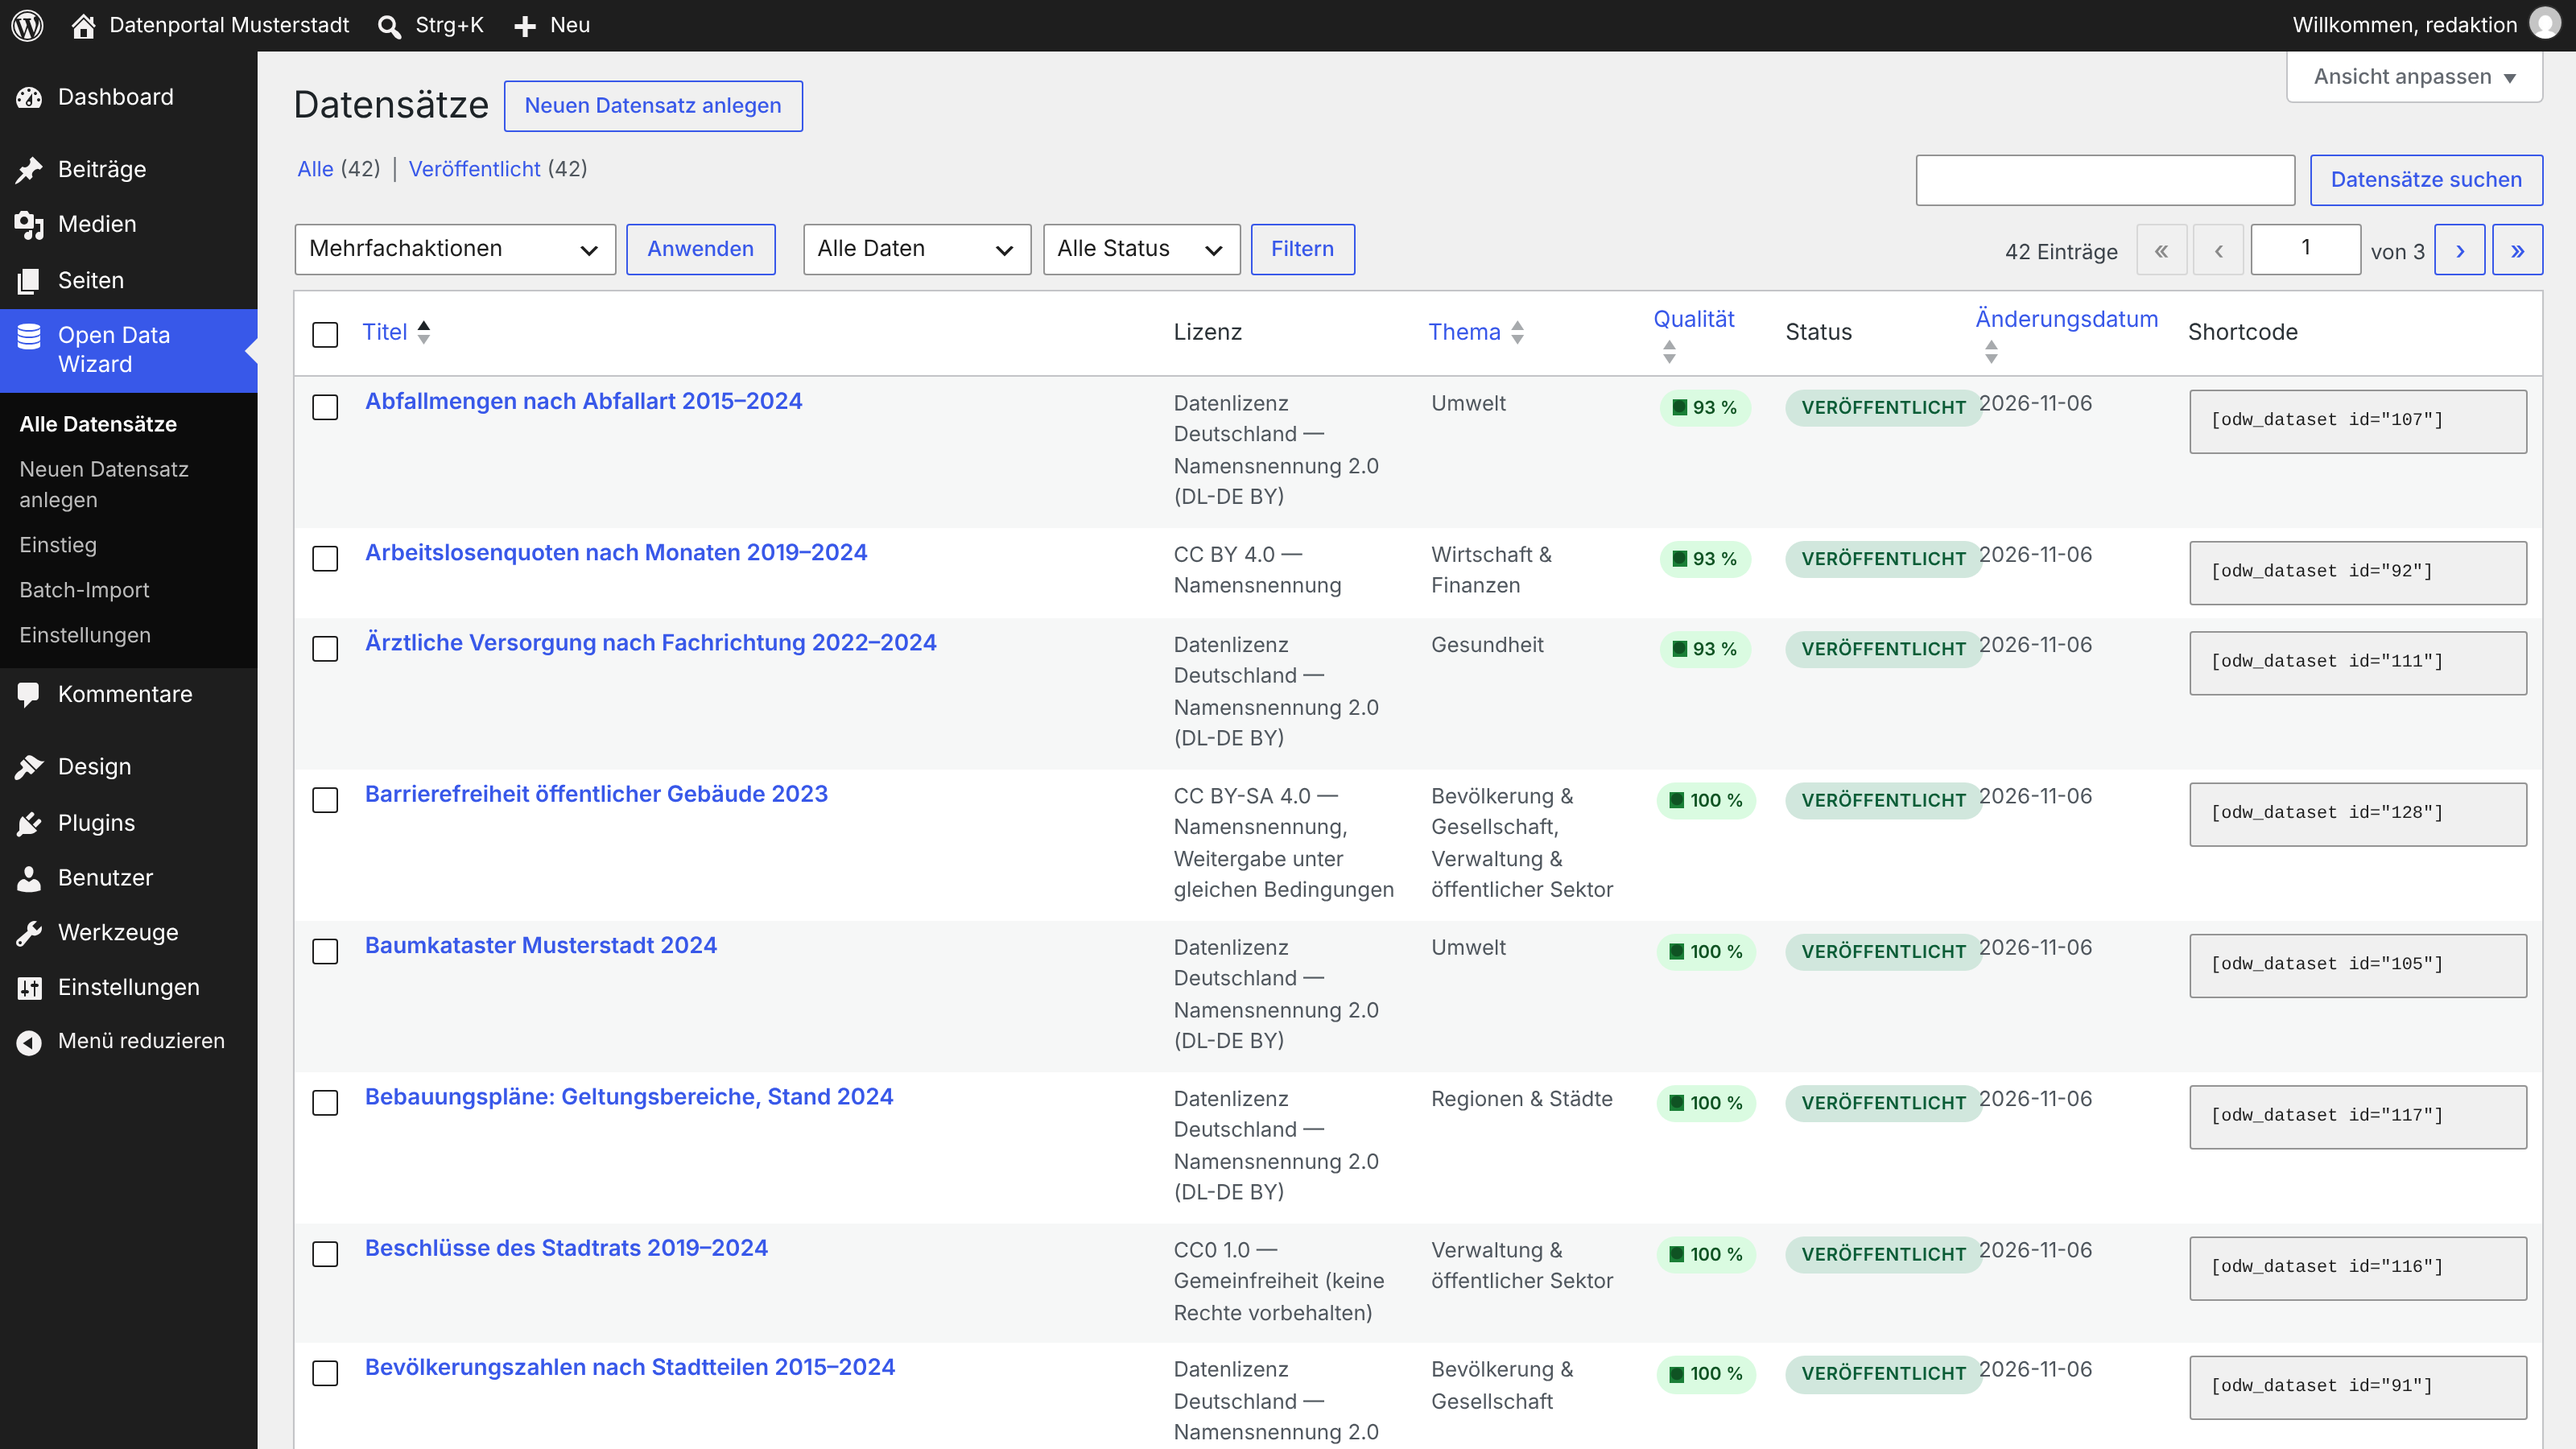
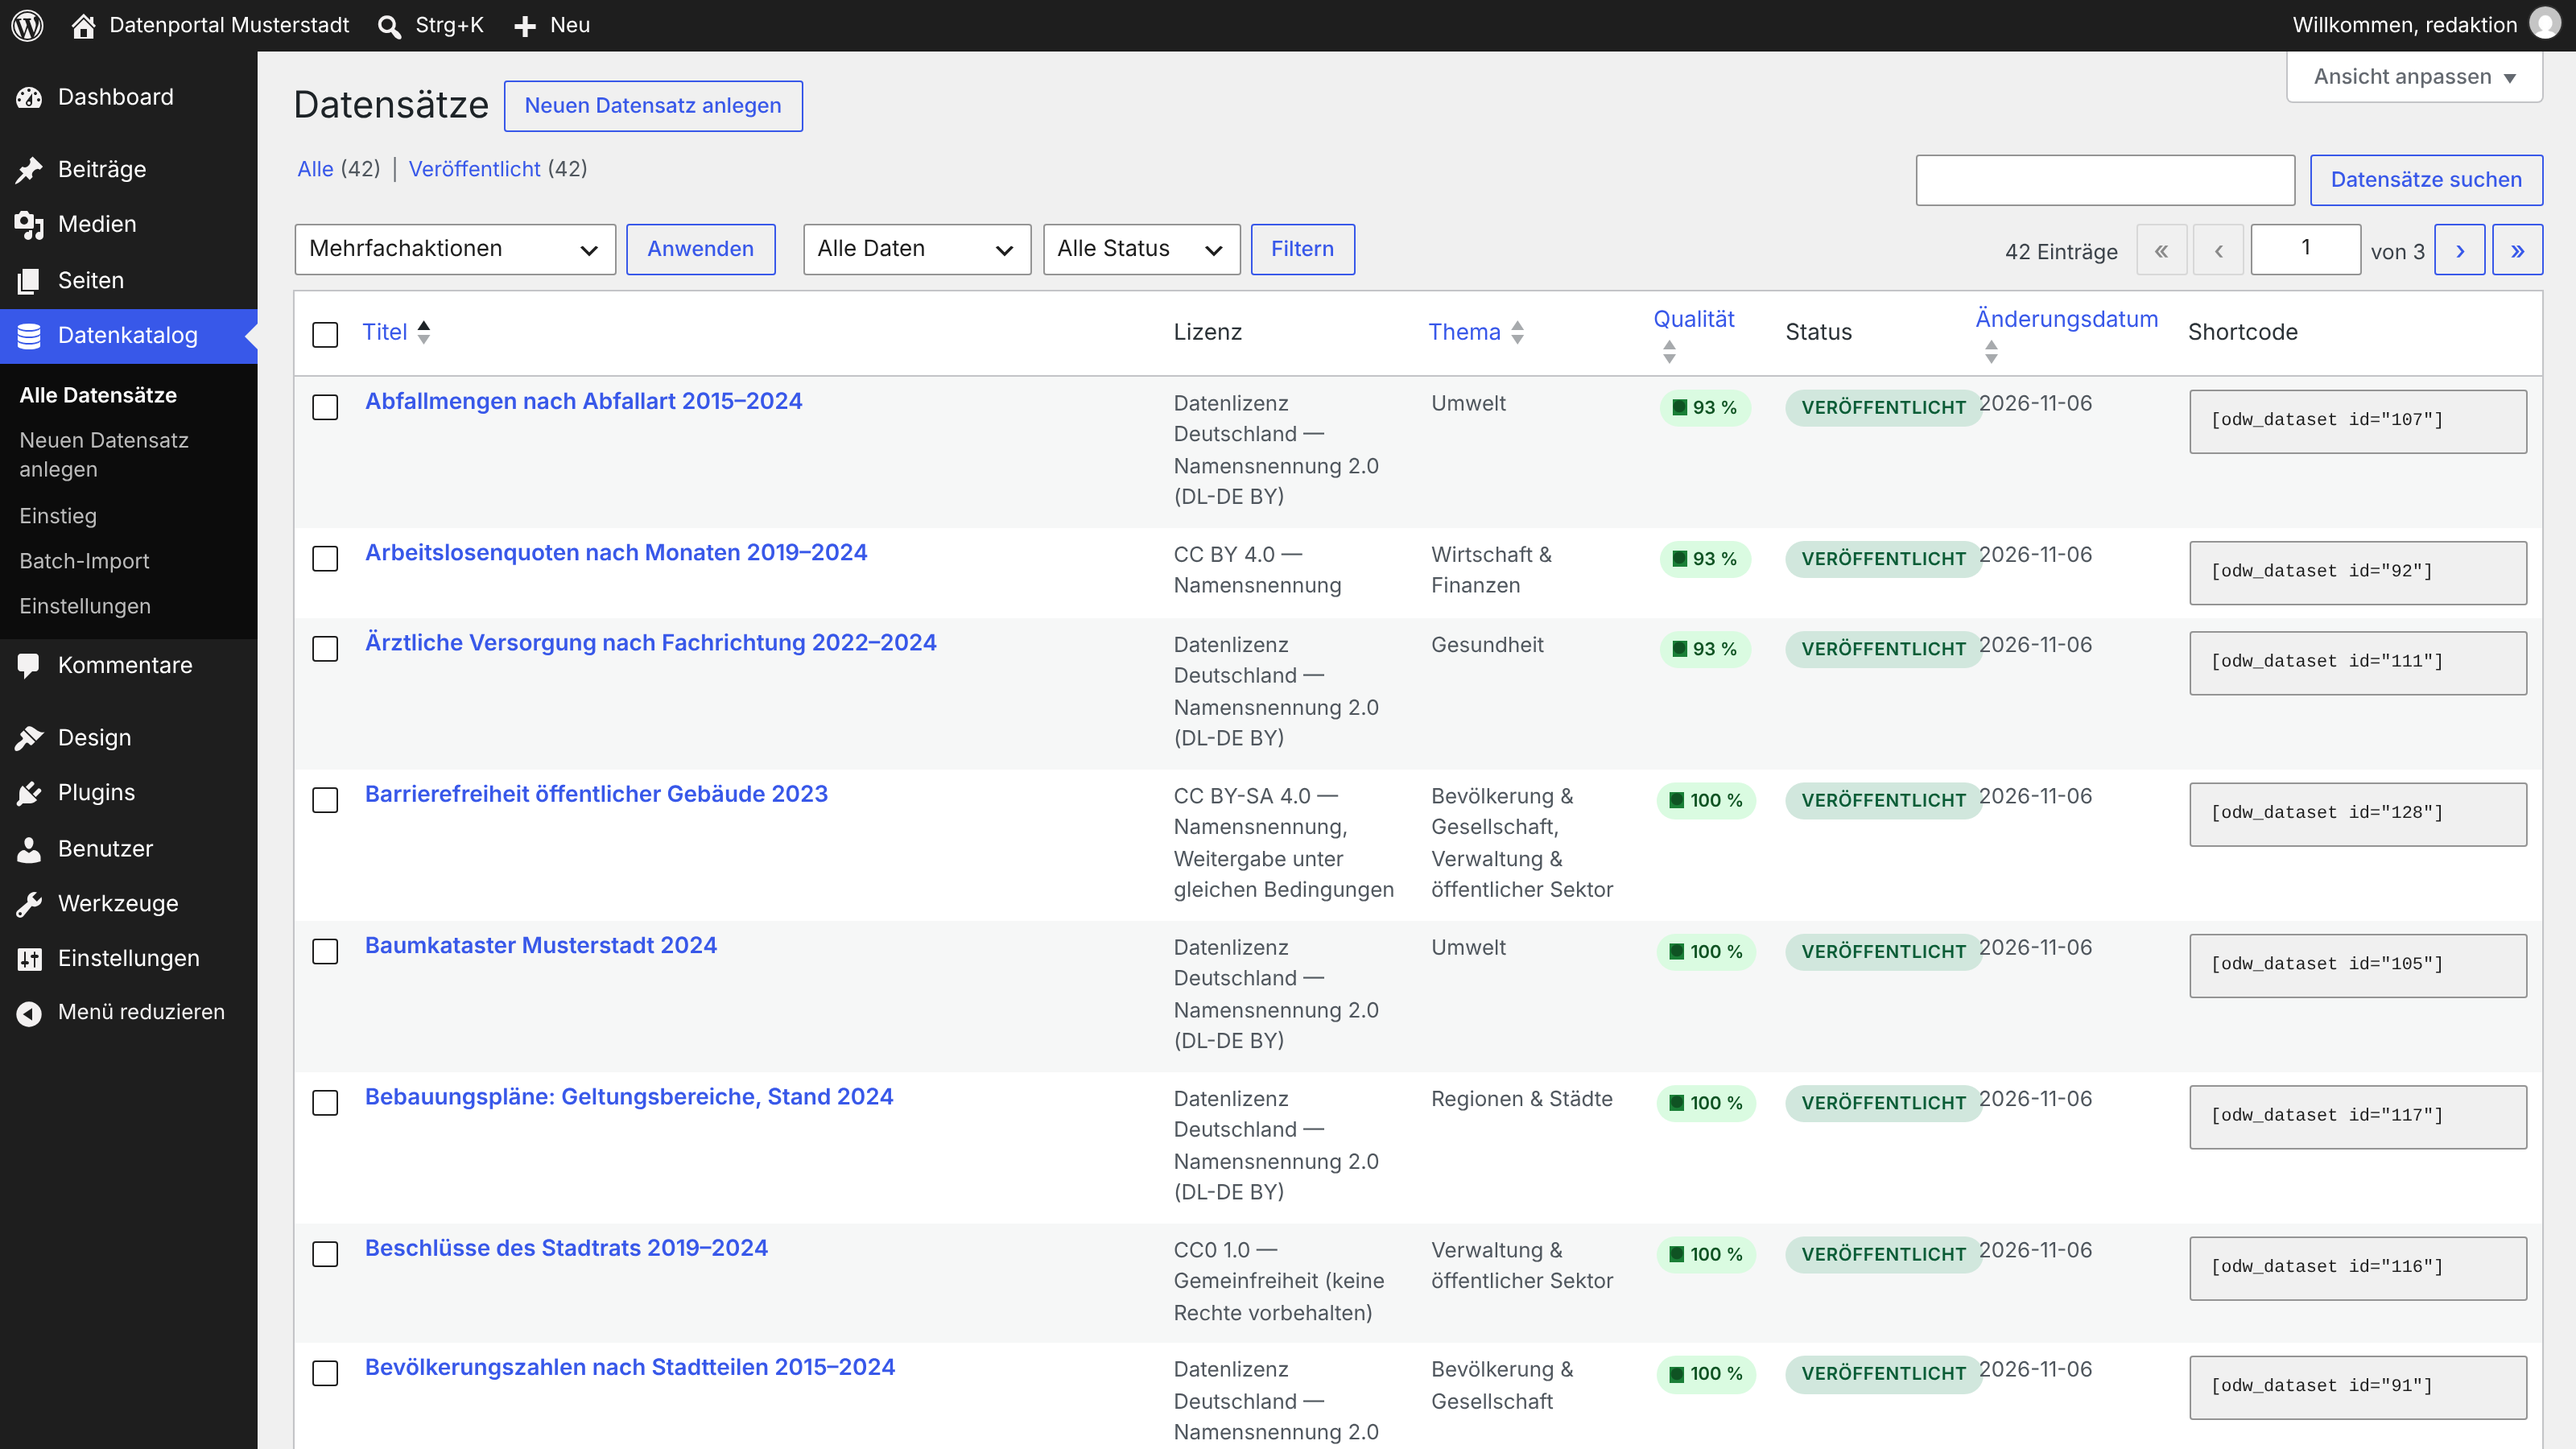
feat: Menüpunkt im Backend heißt „Datenkatalog" (v2.47.4)
- menu_name des CPT von „Open Data Wizard" auf „Datenkatalog"
  (vorhandene Übersetzung: „Data catalogue"); den unbenutzten msgid
  „Open Data Wizard" aus .po/.pot entfernt, .mo neu kompiliert.
- README und CLAUDE.md nennen den Pfad als „Datenkatalog → …"; vorher
  stand dort „Datensätze → …", ein Menüname, den es nicht gab.
- Screenshots von Datensatzliste und Formular neu aufgenommen.
- E2E: der Menüpunkt heißt „Datenkatalog".

Claude-Session: https://claude.ai/code/session_01JB1xUQM892bVZ4Yv3MZjvq

Changed region(s): [[0.0, 0.2178, 0.125, 0.7467]]

diff --git a/tests/e2e/admin-workflow.spec.js b/tests/e2e/admin-workflow.spec.js
@@ -46,6 +46,12 @@ test.beforeEach(async ({ page }) => {
 });
 
 test.describe('Datensatzliste', () => {
+  test('der Menüpunkt heißt „Datenkatalog"', async ({ page }) => {
+    await page.goto(LIST_URL);
+
+    await expect(page.locator('#menu-posts-odw_dataset .wp-menu-name')).toHaveText('Datenkatalog');
+  });
+
   test('zeigt die Datensätze mit allen Zusatzspalten', async ({ page }) => {
     await page.goto(LIST_URL);
 

diff --git a/open-data-wizard.php b/open-data-wizard.php
@@ -3,7 +3,7 @@
  * Plugin Name:       Open Data Wizard
  * Plugin URI:        https://github.com/daimpad/OpenDataWizard
  * Description:       DCAT-AP 3.0 konforme Open Data Metadatenverwaltung für WordPress. Bereitstellung als maschinenlesbarer JSON-LD-Endpoint für offene Daten.
- * Version:           2.47.3
+ * Version:           2.47.4
  * Requires at least: 6.4
  * Requires PHP:      8.1
  * Author:            nozilla
@@ -26,7 +26,7 @@ if ( ! defined( 'ABSPATH' ) ) {
 	exit;
 }
 
-define( 'ODW_VERSION', '2.47.3' );
+define( 'ODW_VERSION', '2.47.4' );
 define( 'ODW_PLUGIN_DIR', plugin_dir_path( __FILE__ ) );
 define( 'ODW_PLUGIN_URL', plugin_dir_url( __FILE__ ) );
 define( 'ODW_PLUGIN_FILE', __FILE__ );

diff --git a/includes/class-post-types.php b/includes/class-post-types.php
@@ -39,7 +39,7 @@ class ODW_Post_Types {
 		$labels = array(
 			'name'                  => _x( 'Datensätze', 'Post Type General Name', 'open-data-wizard' ),
 			'singular_name'         => _x( 'Datensatz', 'Post Type Singular Name', 'open-data-wizard' ),
-			'menu_name'             => __( 'Open Data Wizard', 'open-data-wizard' ),
+			'menu_name'             => __( 'Datenkatalog', 'open-data-wizard' ),
 			'name_admin_bar'        => __( 'Datensatz', 'open-data-wizard' ),
 			'add_new'               => __( 'Neuen Datensatz anlegen', 'open-data-wizard' ),
 			'add_new_item'          => __( 'Neuen Datensatz anlegen', 'open-data-wizard' ),

diff --git a/README.md b/README.md
@@ -6,7 +6,7 @@
 
 <p align="center">
   <img src="https://img.shields.io/github/license/daimpad/OpenDataWizard?style=flat-square&color=03FF9A&labelColor=101010&label=Lizenz" alt="Lizenz">
-  <img src="https://img.shields.io/badge/Version-2.47.3-03FF9A?style=flat-square&labelColor=101010" alt="Version">
+  <img src="https://img.shields.io/badge/Version-2.47.4-03FF9A?style=flat-square&labelColor=101010" alt="Version">
   <img src="https://img.shields.io/badge/DCAT--AP-3.0-03FF9A?style=flat-square&labelColor=101010" alt="DCAT-AP 3.0">
   <img src="https://img.shields.io/badge/PHP-%3E%3D%208.1-03FF9A?style=flat-square&labelColor=101010&logo=php&logoColor=white" alt="PHP >= 8.1">
   <img src="https://img.shields.io/badge/WordPress-6.4%2B-03FF9A?style=flat-square&labelColor=101010&logo=wordpress&logoColor=white" alt="WordPress 6.4+">
@@ -152,7 +152,7 @@ Kuratierte Auswahlliste (Deutschland, alle 16 Bundesländer, größere Städte).
 
 ### 📥 Batch-Import (CSV & JSON)
 ```
-Datensätze → Batch-Import
+Datenkatalog → Batch-Import
 ```
 Importiere mehrere Datensätze auf einmal aus CSV oder JSON Dateien. Der Import-Wizard zeigt eine Vorschau aller gültigen Zeilen, markiert Fehler, und lässt dich auswählen, welche Datensätze importiert werden. Alle importierten Datensätze werden als **Entwürfe** erstellt — zur Bearbeitung vor Publishing bereit.
 
@@ -213,7 +213,7 @@ Die Beispieldateien enthalten 42 vollständig ausgefüllte, frei erfundene Daten
 
 ### 🧪 Beispieldaten zum Ausprobieren
 ```
-Datensätze → Einstieg  (oder Batch-Import)  →  „Beispieldaten laden"
+Datenkatalog → Einstieg  (oder Batch-Import)  →  „Beispieldaten laden"
 ```
 Der Katalog startet leer — das Plugin legt bei der Aktivierung keine Datensätze mehr an. Wer das Plugin erst kennenlernen will, lädt mit einem Klick die 42 Datensätze aus `samples/import-example.json`. Sie werden angelegt, als **Beispieldaten** gekennzeichnet und veröffentlicht. Für sie gilt:
 
@@ -234,7 +234,7 @@ Steht in Tab 3 direkt unter der Zugriffs-URL, zu der er die Alternative ist:
 - Sicherheit: `wp_verify_nonce` + `current_user_can('edit_post')`
 
 ### ⚙ Einstellungsseite
-Untermenü unter *Datensätze → Einstellungen* mit vier Bereichen:
+Untermenü unter *Datenkatalog → Einstellungen* mit vier Bereichen:
 - **Katalog** — Titel und Herausgebende Organisation
 - **Standardwerte** — Standard-Sprache (wird bei neuen Datensätzen vorausgefüllt)
 - **REST API** — Cache-Laufzeit (60–86400 Sekunden)
@@ -427,7 +427,7 @@ GET https://deine-website.de/wp-json/datenatlas/v1/catalog?full=1               
 - **`format=turtle`** serialisiert denselben Graphen als **Turtle** (`text/turtle`) — ohne externe RDF-Bibliothek. JSON-LD (`application/ld+json`) und `json` bleiben verfügbar. Harvester, die rein über Header aushandeln, senden stattdessen `Accept: text/turtle`.
 - Die Datensatz-URIs (`@id`) sind **über Releases stabil** (an die Post-ID gebunden), sodass Harvester Aktualisierungen/Löschungen korrekt zuordnen und keine Duplikate anlegen.
 
-Die fertigen Harvest-URLs zeigt das Plugin **kopierfertig unter _Datensätze → Einstellungen → Harvesting_** an.
+Die fertigen Harvest-URLs zeigt das Plugin **kopierfertig unter _Datenkatalog → Einstellungen → Harvesting_** an.
 
 ### ✅ DCAT-AP 3.0 Konformität — nachgewiesen, nicht behauptet
 
@@ -653,7 +653,7 @@ Bitte öffne zunächst ein [Issue](https://github.com/daimpad/OpenDataWizard/iss
 
 Das Plugin löscht bei Deinstallation standardmäßig **keine** Daten (Opt-in).
 
-Um alle Plugin-Daten zu löschen, die Checkbox unter **Datensätze → Einstellungen → Deinstallation** aktivieren und dann das Plugin im WordPress-Backend deinstallieren. `uninstall.php` entfernt alle `odw_dataset`-Posts, alle `_odw_*`-Metafelder sowie die Plugin-Optionen.
+Um alle Plugin-Daten zu löschen, die Checkbox unter **Datenkatalog → Einstellungen → Deinstallation** aktivieren und dann das Plugin im WordPress-Backend deinstallieren. `uninstall.php` entfernt alle `odw_dataset`-Posts, alle `_odw_*`-Metafelder sowie die Plugin-Optionen.
 
 ---
 

diff --git a/CLAUDE.md b/CLAUDE.md
@@ -360,7 +360,7 @@ und Datenkatalog (`ODW_Catalog`) teilen sich darüber dieselbe Logik.
 
 ### Menü-Struktur
 ```
-WordPress Admin → Datensätze
+WordPress Admin → Datenkatalog (Menüpunkt; die Liste heißt „Datensätze")
 ├── Alle Datensätze (List View mit Spalten; Beispiele mit „— Beispieldaten")
 ├── Neuen Datensatz erstellen (Create Form)
 ├── Einstieg
@@ -828,7 +828,7 @@ Update **both** locations:
 - MINOR: New features (backward-compatible)
 - PATCH: Bug fixes only
 
-Current: **v2.47.3**
+Current: **v2.47.4**
 
 ---
 
@@ -981,6 +981,6 @@ Neue technische Festlegungen gehören dorthin, nicht in README oder CLAUDE.md.
 
 ---
 
-**Zuletzt aktualisiert**: Version 2.47.3 (November 2026)
+**Zuletzt aktualisiert**: Version 2.47.4 (November 2026)
 **Autor**: Open Data Wizard Team (nozilla)
 **License**: GPL-2.0-or-later

diff --git a/CHANGELOG.md b/CHANGELOG.md
@@ -7,6 +7,17 @@ und dieses Projekt folgt [Semantic Versioning](https://semver.org/spec/v2.0.0.ht
 
 ---
 
+## [2.47.4] — 2026-11-06
+
+### 🔧 Changed
+- **Der Menüpunkt im WordPress-Backend heißt jetzt „Datenkatalog"** statt „Open Data Wizard"
+  (englisch: „Data catalogue"). Die Untermenüs bleiben gleich. README und CLAUDE.md nennen den
+  Pfad entsprechend („Datenkatalog → Einstellungen" usw.); die Doku sprach bisher von
+  „Datensätze → …", einem Menünamen, den es nie gab. Screenshots von Datensatzliste und
+  Formular neu aufgenommen. E2E-Test sichert den Namen ab.
+
+---
+
 ## [2.47.3] — 2026-11-06
 
 ### 🐛 Fixed
